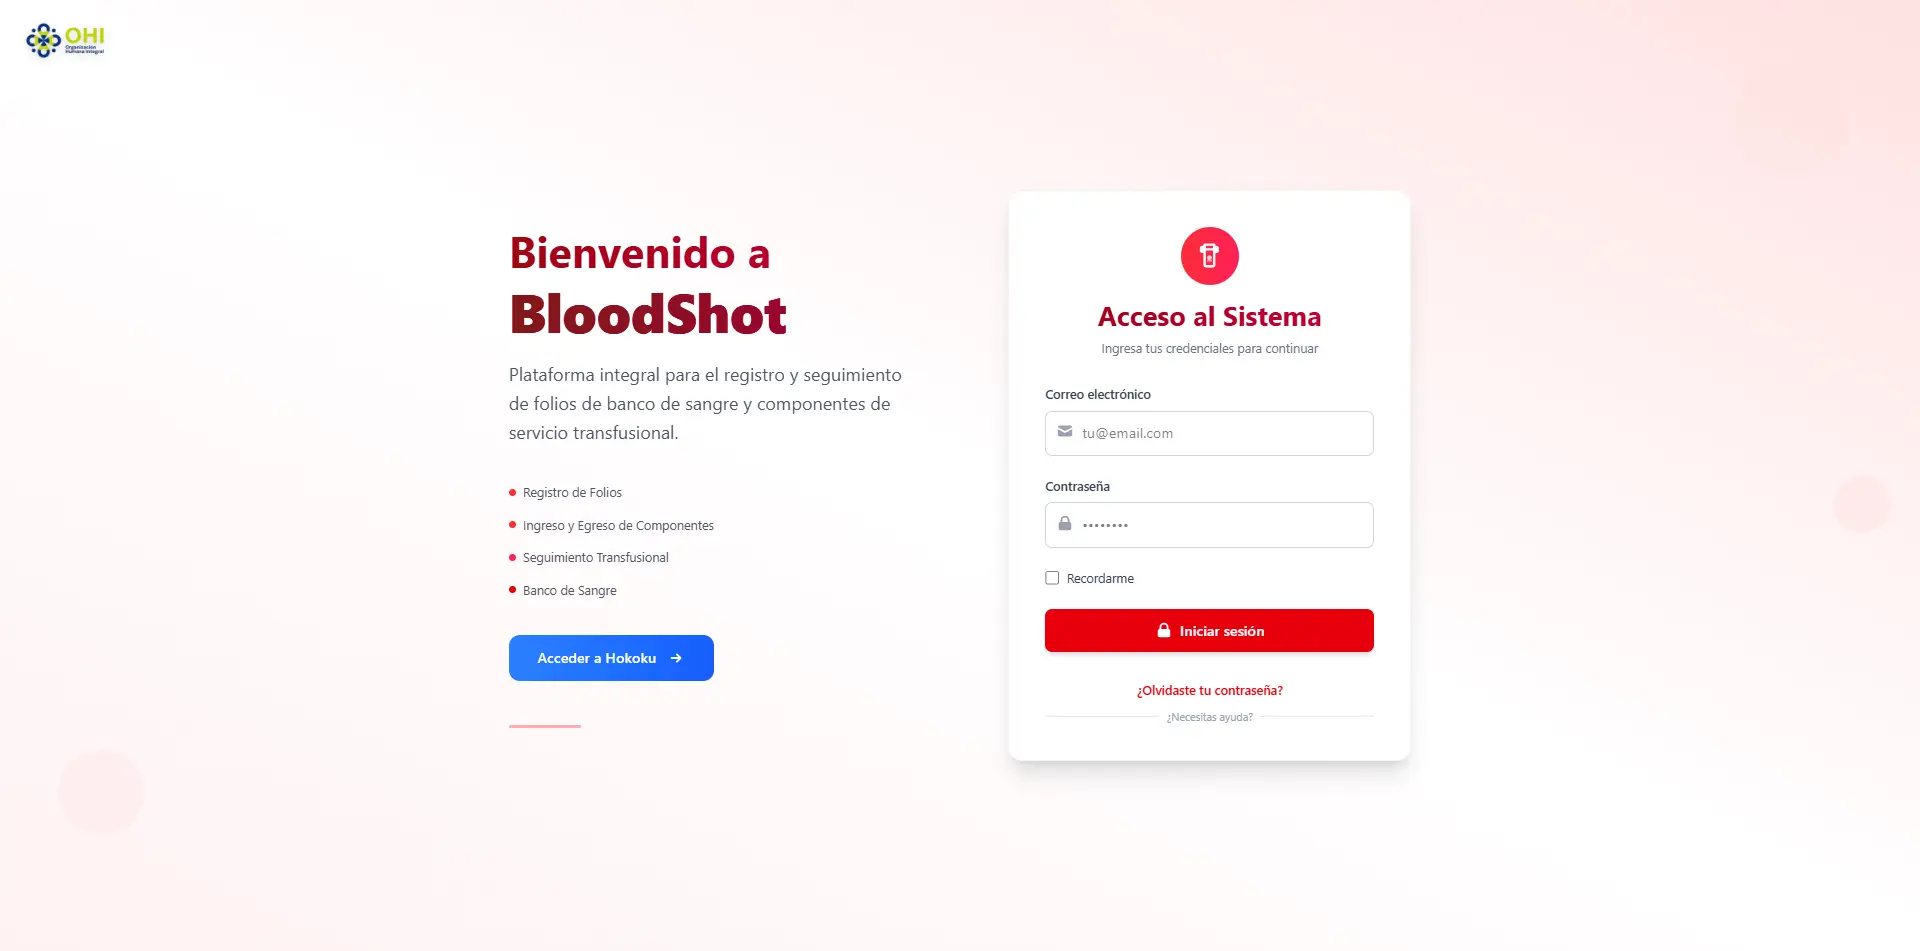
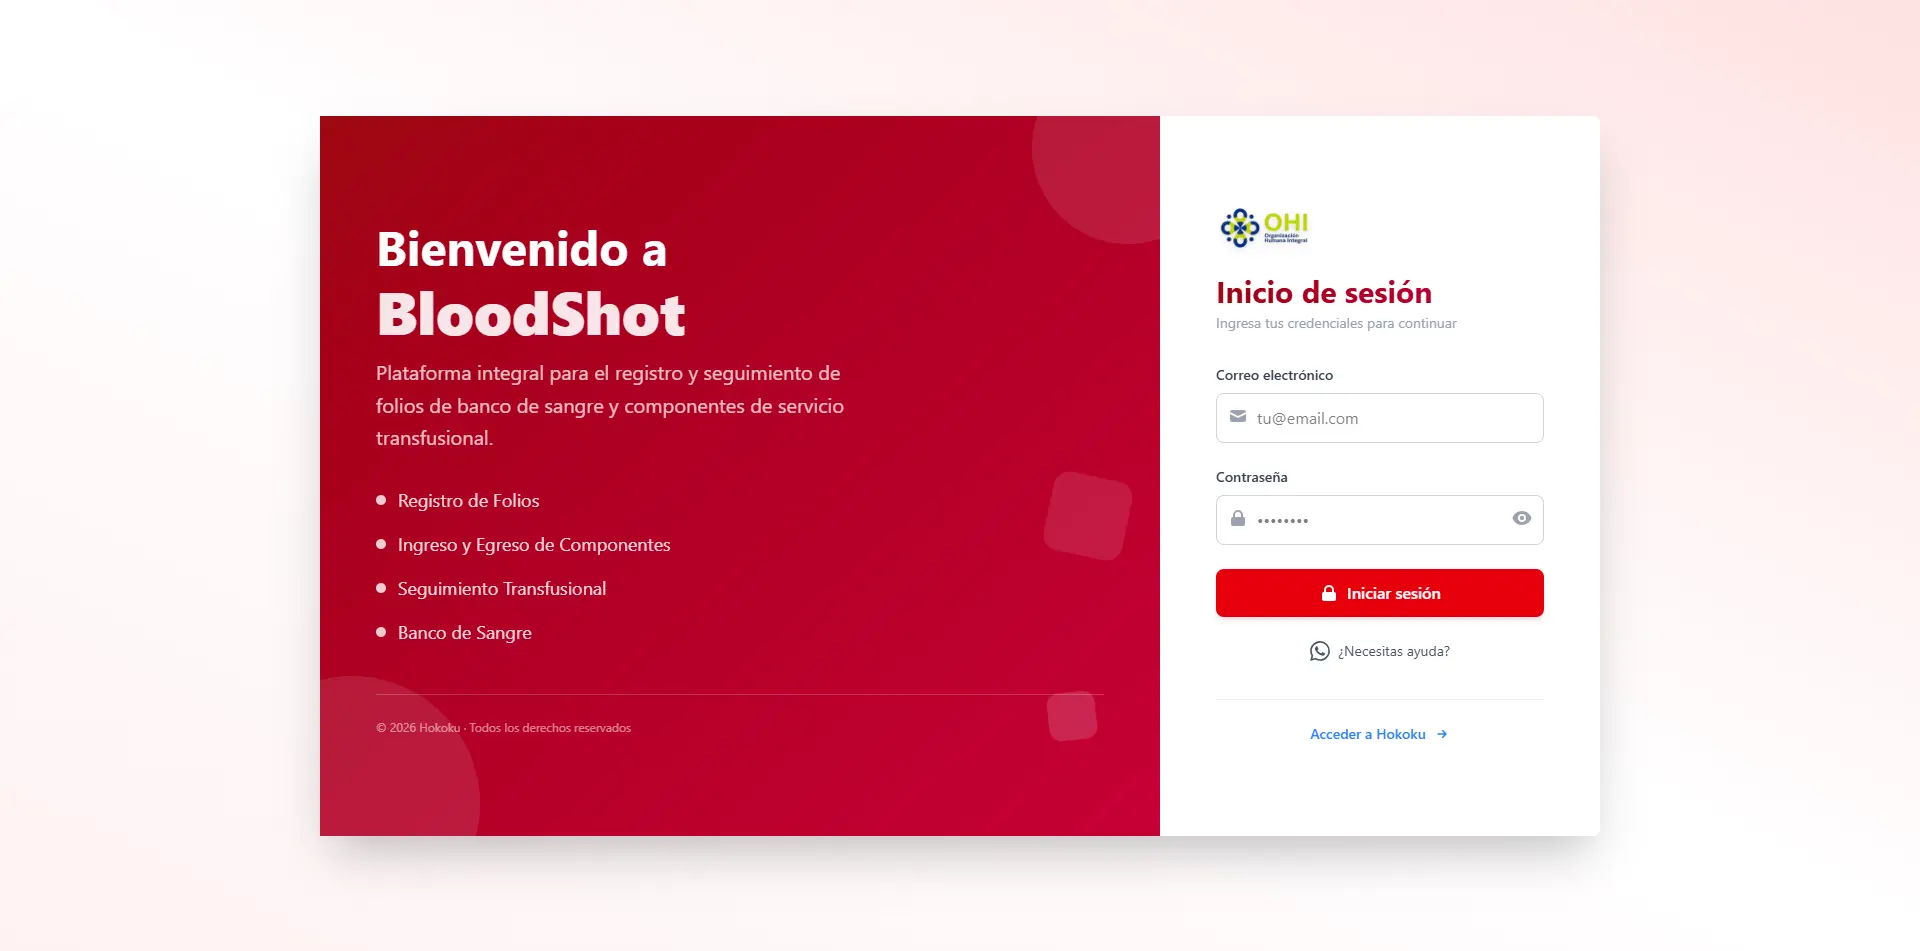
feat: update project images in projects.js; remove obsolete images and add new ones for Hokoku BloodShot

diff --git a/src/data/projects.js b/src/data/projects.js
@@ -1,23 +1,23 @@
 export const projects = [
   {
+    title: "Hokoku",
+    description: "Plataforma integral para la gestión y recolección de datos para las áreas administrativas y asistenciales de la organizacion humana integral OHI.",
+    tags: ["Astro", "React", "Supabase", "SqlServer"],
+    images: ["/projects/hokokulogin.webp", "/projects/hokokuwelcomeadmin.webp", "/projects/hokokuwelcomeusers.webp","/projects/hokokuwelcomeusers2.webp"],
+  },
+  {
+    title: "Hokoku BloodShot",
+    description: "Extension de hokoku para el registro y seguimiento de folios de banco de sangre, ademas control de inventiario para los componentes de servicio transfusional.",
+    tags: ["Astro", "React", "Supabase", "SqlServer"],
+    images: ["/projects/bloodshotlogin.webp","/projects/bloodshotwelcome.webp", "/projects/bloodshotfolioreg.webp","/projects/bloodshotfoliohis.webp", "/projects/bloodshotingcomp.webp", "/projects/bloodshotegrcomp.webp"],
+  },
+  {
     title: "Kenwa",
     description: "Aplicativo movil para el control del tiempo de trabajo y descanso laboral. Asi como el seguimiento del nivel de estres del empleado.",
     tags: ["Flutter", "Dart"],
     images: ["/projects/kenwa.webp"],
     web: "https://kenwa.pages.dev/",
     repo: "https://github.com/InflvxDev/kenwa_app",
-  },
-  {
-    title: "Hokoku",
-    description: "Plataforma integral para la gestión y seguimiento de información de las áreas administrativas de la organizacion humana integral OHI.",
-    tags: ["Astro", "React", "Supabase", "SqlServer"],
-    images: ["/projects/hokokulogin.webp", "/projects/hokokuwelcomeadmin.webp", "/projects/hokokuwelcomeusers.webp"],
-  },
-  {
-    title: "Hokoku BloodShot",
-    description: "Extension de hokoku para el registro y seguimiento de folios de banco de sangre, ademas control de inventiario para los componentes de servicio transfusional.",
-    tags: ["Astro", "React", "Supabase", "SqlServer"],
-    images: ["/projects/bloodshotlogin.webp", "/projects/bloodshotfolioreg.webp", "/projects/bloodshotingcomp.webp", "/projects/bloodshotegrcomp.webp", "/projects/bloodshotcomponentesinv.webp"],
   },
   {
     title: "Selenium ChatBot",
